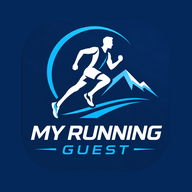
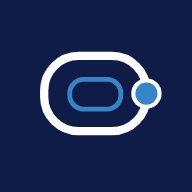
Identité My Running Lab
- Nouveau nom : My Running Lab (titre, en-tête « My Running Lab » avec
  « Lab » en bleu, manifeste, « Running Lab » sous l'icône, bilan, exports)
- Icône redessinée en vectoriel d'après le visuel fourni
  (identite/icone-my-running-lab.svg) ; icônes any, maskable et iPhone
- Palette de l'identité : bleu nuit #101C48, bleu #3884C8 (formes, grand
  texte, graphiques « réalisé »), bleu foncé #2766A3 (texte, boutons)
- Remplace le logo My Running Guest du commit précédent
- Identifiant technique des sauvegardes conservé (compatibilité)

Claude-Session: https://claude.ai/code/session_01VrhGhF3bVePQy5oompcvZY

Changed region(s): [[0.1562, 0.125, 0.8438, 0.8125], [0.8125, 0.2812, 0.875, 0.3438]]

diff --git a/index.html b/index.html
@@ -3,34 +3,33 @@
 <head>
 <meta charset="utf-8">
 <meta name="viewport" content="width=device-width, initial-scale=1, viewport-fit=cover">
-<meta name="theme-color" content="#020317">
-<title>My Running Guest</title>
+<meta name="theme-color" content="#101C48">
+<title>My Running Lab</title>
 <link rel="manifest" href="manifest.json">
 <link rel="apple-touch-icon" href="icons/apple-touch-icon.png">
 <link rel="icon" type="image/png" href="icons/icon-192.png">
 <meta name="apple-mobile-web-app-capable" content="yes">
-<meta name="apple-mobile-web-app-title" content="Running Guest">
+<meta name="apple-mobile-web-app-title" content="Running Lab">
 <meta name="apple-mobile-web-app-status-bar-style" content="default">
 <style>
-/* Charte ACN Anduze : toutes les couleurs se changent ici.
-   Couleurs mesurées sur le logo fourni (à remplacer par les codes officiels du club s'ils existent) :
-   bleu nuit #020317, bleu ciel #5AB6CB (teinte la plus soutenue du dégradé), blanc.
-   Le bleu ciel n'a que 2,3:1 de contraste sur blanc : il reste décoratif (filets, fonds).
-   Texte, boutons, liens et marques de graphique « réalisé » utilisent sa version foncée --azur-fonce
-   (6,0:1 sur blanc, au moins 5,0:1 sur tous les fonds teintés de l'outil). */
+/* Identité My Running Lab : toutes les couleurs se changent ici.
+   Couleurs mesurées sur le visuel d'identité fourni : bleu nuit #101C48, bleu #3884C8.
+   Le bleu #3884C8 n'a que 3,96:1 sur blanc : il sert aux formes (graphiques, filets) et au grand texte (« Lab »).
+   Texte courant, boutons et liens bleus utilisent --azur-fonce #2766A3 (au moins 5:1 sur tous les fonds de l'outil). */
 :root {
-  --nuit: #020317;          /* logo */
-  --azur: #5AB6CB;          /* logo : bleu ciel, usage décoratif uniquement */
-  --azur-fonce: #176C81;    /* bleu ciel assombri : texte, boutons, série « réalisé » */
-  --azur-clair: #E3F2F6;
+  --nuit: #101C48;          /* identité : bleu nuit */
+  --azur: #3884C8;          /* identité : bleu (formes, grand texte, filets) */
+  --azur-fonce: #2766A3;    /* bleu foncé : texte, boutons, liens */
+  --azur-clair: #EBF3FA;
+  --serie-realise: #3884C8; /* graphiques : séances réalisées */
   --blanc: #FFFFFF;
-  --texte: #020317;         /* bleu nuit du logo */
-  --texte-2: #45505C;
+  --texte: #101C48;
+  --texte-2: #4A5470;
   --bord: #C8D2DA;
   --fond-2: #F3F6F8;
-  /* Accent secondaire unique : distingue « prévu » de « réalisé » (bleu nuit du logo) */
-  --prevu: #020317;
-  --prevu-clair: #E9EAF0;
+  /* Accent secondaire unique : distingue « prévu » de « réalisé » (bleu nuit de l'identité) */
+  --prevu: #101C48;
+  --prevu-clair: #E8EAF1;
   --rayon: 8px;
   --cible: 44px;
   --nav-h: 64px;
@@ -58,8 +57,9 @@ a { color: var(--azur-fonce); }
   display: flex; align-items: center; gap: .75rem; flex-wrap: wrap;
   padding: .75rem 1rem; border-bottom: 3px solid var(--azur); background: var(--blanc);
 }
-.topbar h1 { margin: 0; font-size: 1.15rem; color: var(--nuit); }
-.topbar .club { color: var(--texte-2); font-size: .9rem; }
+.topbar h1 { margin: 0; font-size: 1.25rem; font-weight: 800; color: var(--nuit); letter-spacing: -.01em; }
+/* « Lab » en bleu de l'identité : texte de 20 px en gras = grand texte, contraste 3,96:1 >= 3:1 */
+.topbar h1 .lab { color: var(--azur); }
 main { padding: 1rem; padding-bottom: calc(var(--nav-h) + 90px + env(safe-area-inset-bottom)); max-width: 1500px; }
 main:focus { outline: none; }
 
@@ -95,7 +95,7 @@ main:focus { outline: none; }
 }
 .btn:hover { background: var(--azur-clair); }
 .btn.primaire { background: var(--azur-fonce); color: var(--blanc); }
-.btn.primaire:hover { background: #0F5566; }
+.btn.primaire:hover { background: #1E5486; }
 .btn.prevu { border-color: var(--prevu); color: var(--prevu); }
 .btn.prevu:hover { background: var(--prevu-clair); }
 .btn.discret { border-color: var(--bord); color: var(--texte); }
@@ -266,7 +266,7 @@ table.simple td.num, table.simple th.num { text-align: right; }
 .graph .point { stroke: var(--blanc); stroke-width: 2; }
 .graph .moyenne { stroke: var(--texte); stroke-width: 2; stroke-linecap: round; }
 .graph .cible { fill: transparent; cursor: pointer; }
-.graph .cible:hover, .graph .cible:focus { fill: rgba(23, 108, 129, .08); outline: none; }
+.graph .cible:hover, .graph .cible:focus { fill: rgba(56, 132, 200, .10); outline: none; }
 .legende { display: flex; gap: 1rem; font-size: .85rem; color: var(--texte-2); margin-bottom: .25rem; }
 .legende i { display: inline-block; width: 12px; height: 12px; border-radius: 3px; margin-right: .35rem; vertical-align: -1px; }
 .barres-h { display: flex; flex-direction: column; gap: 4px; }
@@ -274,7 +274,7 @@ table.simple td.num, table.simple th.num { text-align: right; }
 .bh:hover, .bh:focus { background: var(--fond-2); outline: none; }
 .bh-lib { font-size: .9rem; }
 .bh-piste { height: 20px; display: flex; align-items: center; }
-.bh-barre { display: block; height: 20px; background: var(--azur-fonce); border-radius: 0 4px 4px 0; min-width: 2px; }
+.bh-barre { display: block; height: 20px; background: var(--serie-realise); border-radius: 0 4px 4px 0; min-width: 2px; }
 .bh-val { font-size: .85rem; color: var(--texte-2); font-variant-numeric: tabular-nums; white-space: nowrap; }
 details.donnees summary { min-height: 36px; font-size: .9rem; }
 table.pvr td, table.pvr th { white-space: nowrap; font-variant-numeric: tabular-nums; }
@@ -282,7 +282,7 @@ table.pvr tr.futur td { color: var(--texte-2); }
 table.pvr .sans { color: var(--texte-2); font-size: .8rem; }
 table.simple td.num { white-space: nowrap; }
 .jauge { display: inline-block; width: 90px; height: 10px; background: var(--azur-clair); border-radius: 5px; vertical-align: middle; overflow: hidden; }
-.jauge span { display: block; height: 100%; background: var(--azur-fonce); }
+.jauge span { display: block; height: 100%; background: var(--serie-realise); }
 #infobulle { position: fixed; z-index: 60; display: none; pointer-events: none; background: var(--blanc); color: var(--texte); border: 1px solid var(--bord);
   border-radius: 6px; padding: .4rem .6rem; font-size: .85rem; box-shadow: 0 2px 8px rgba(0,0,0,.15); max-width: 280px; }
 #infobulle .cle { display: inline-block; width: 12px; height: 2px; margin-right: .4rem; vertical-align: middle; }
@@ -332,7 +332,7 @@ table.simple td.num { white-space: nowrap; }
 .cm-pastilles { display: none; gap: 3px; }
 .cm-pastilles i { width: 8px; height: 8px; border-radius: 50%; display: inline-block; }
 .cm-pastilles i.p { border: 2px solid var(--prevu); box-sizing: border-box; }
-.cm-pastilles i.r { background: var(--azur-fonce); }
+.cm-pastilles i.r { background: var(--serie-realise); }
 .cm-puces { display: flex; flex-direction: column; gap: 2px; }
 .cm-puces .puce { padding: 1px 3px; }
 .cm-puces .puce-corps { min-height: 0; }
@@ -409,7 +409,7 @@ tr.point td { font-weight: 700; }
     <a href="#/reglages" data-route="reglages"><svg viewBox="0 0 24 24" aria-hidden="true"><path d="M4 21v-7M4 10V3M12 21v-9M12 8V3M20 21v-5M20 12V3M1 14h6M9 8h6M17 16h6"/></svg><span>Réglages</span></a>
   </nav>
   <div>
[2 lines of base64/hex data omitted]
     <div id="bannieres"></div>
     <main id="vue" tabindex="-1"><p>Chargement…</p></main>
   </div>
@@ -2058,12 +2058,13 @@ var DB = (function () {
     var meta = Object.assign({}, DB.data.meta);
     delete meta.derniereSauvegarde;
     var paquet = {
+      // Identifiant technique conservé tel quel (ancien nom) : les sauvegardes déjà exportées restent importables
       application: 'suivi-trail-acn-anduze', schema: Core.SCHEMA_VERSION, exporteLe: maintenant(),
       donnees: { seances: DB.data.seances, courses: DB.data.courses, chaussures: DB.data.chaussures, vma: DB.data.vma, parametres: meta.parametres || {},
         // Réglages transférables entre appareils. Les jetons Strava (meta.strava) restent propres à chaque appareil et ne sont jamais exportés.
         reglages: REGLAGES_EXPORTES.reduce(function (acc, k) { if (meta[k] != null) acc[k] = meta[k]; return acc; }, {}) }
     };
-    telecharger('trail-acn-sauvegarde-' + Core.todayParis() + '.json', JSON.stringify(paquet, null, 2), 'application/json');
+    telecharger('my-running-lab-sauvegarde-' + Core.todayParis() + '.json', JSON.stringify(paquet, null, 2), 'application/json');
     DB.setMeta('derniereSauvegarde', maintenant()).then(function () { toast('Sauvegarde exportée.'); rafraichir(); }).catch(erreurStockage);
   }
 
@@ -3172,7 +3173,7 @@ var DB = (function () {
     for (var v = y0; v <= y1 + 1e-9; v += pas) { el('line', { x1: m.l, x2: W - m.r, y1: sy(v), y2: sy(v), class: 'grille' }, svg); txt(svg, m.l - 6, sy(v) + 4, fmt(v, 0), { class: 'axe', 'text-anchor': 'end' }); }
     o.reperes.forEach(function (r) { txt(svg, sx(r.iso), H - 8, r.lib, { class: 'axe', 'text-anchor': 'middle' }); });
     o.points.forEach(function (p) {
-      el('circle', { cx: sx(p.date), cy: sy(p.y), r: 4, fill: 'var(--azur-fonce)', class: 'point' }, svg);
+      el('circle', { cx: sx(p.date), cy: sy(p.y), r: 4, fill: 'var(--serie-realise)', class: 'point' }, svg);
       el('circle', { cx: sx(p.date), cy: sy(p.y), r: 12, class: 'cible', role: 'img', tabindex: 0, 'data-tip': JSON.stringify(p.tip), 'aria-label': p.tip.map(function (t) { return t.v; }).join(', ') }, svg);
     });
     conteneur.textContent = ''; conteneur.appendChild(svg);
@@ -3193,7 +3194,7 @@ var DB = (function () {
       var cy = m.t + i * lh + lh / 2;
       txt(svg, m.l - 10, cy + 4, typeLabel(l.type), { class: 'etiquette', 'text-anchor': 'end' });
       l.seances.forEach(function (x) {
-        el('circle', { cx: sx(x.allure), cy: cy, r: 4, fill: 'var(--azur-fonce)', class: 'point' }, svg);
+        el('circle', { cx: sx(x.allure), cy: cy, r: 4, fill: 'var(--serie-realise)', class: 'point' }, svg);
         el('circle', { cx: sx(x.allure), cy: cy, r: 12, class: 'cible', role: 'img', tabindex: 0, 'data-tip': JSON.stringify([{ v: dateLongue(x.s.date) + ' — ' + typeLabel(x.s.type) }, { v: Core.formatPace(x.allure), l: fmt(x.s.distanceKm, 2) + ' km' }]), 'aria-label': Core.formatDateFR(x.s.date) + ' ' + Core.formatPace(x.allure) }, svg);
       });
       el('line', { x1: sx(l.allureMoy), x2: sx(l.allureMoy), y1: cy - 12, y2: cy + 12, class: 'moyenne' }, svg);
@@ -3263,7 +3264,7 @@ var DB = (function () {
     h += '<div class="grille-graph">' +
       '<section class="carte"><h3>Volume par semaine (km réalisés)</h3><div class="graph" id="g-km"></div>' + tableDonnees(['Semaine', 'Km', 'D+ (m)', 'Durée réalisée', 'Durée prévue'], lignesSem) + '</section>' +
       '<section class="carte"><h3>D+ par semaine (m réalisés)</h3><div class="graph" id="g-dplus"></div></section>' +
-      '<section class="carte"><h3>Durée par semaine : prévue et réalisée</h3><div class="legende"><span><i style="background:var(--prevu)"></i>Prévue</span><span><i style="background:var(--azur-fonce)"></i>Réalisée</span></div><div class="graph" id="g-duree"></div>' +
+      '<section class="carte"><h3>Durée par semaine : prévue et réalisée</h3><div class="legende"><span><i style="background:var(--prevu)"></i>Prévue</span><span><i style="background:var(--serie-realise)"></i>Réalisée</span></div><div class="graph" id="g-duree"></div>' +
       '<p class="aide">Prévue = somme des durées des séances prévues qui en ont une ; les séances prévues sans durée ne comptent pas.</p></section>';
     var fc = reals.filter(function (s) { return Core.isNum(s.fcMoy); }).sort(function (a, b) { return a.date < b.date ? -1 : 1; });
     h += '<section class="carte"><h3>FC moyenne par séance (bpm)</h3>' + (fc.length ? '<div class="graph" id="g-fc"></div>' +
@@ -3321,10 +3322,10 @@ var DB = (function () {
 
     // Tracés (largeur réelle du conteneur, rejoués au redimensionnement)
     var etiq = W.map(semaineLib), det = W.map(function (w) { return semaineLib(w) + ' · ' + plageLib(w.du, w.au); });
-    dessins.push(function () { graphColonnes($('#g-km'), { titre: 'Km réalisés par semaine', etiquettes: etiq, details: det, series: [{ nom: 'réalisés', couleur: 'var(--azur-fonce)', valeurs: W.map(function (w) { return w.realise.km; }) }], formatAxe: function (v) { return fmt(v, 0); }, formatVal: function (v) { return fmt(v, 1) + ' km'; } }); });
-    dessins.push(function () { graphColonnes($('#g-dplus'), { titre: 'D+ réalisé par semaine', etiquettes: etiq, details: det, series: [{ nom: 'réalisé', couleur: 'var(--azur-fonce)', valeurs: W.map(function (w) { return w.realise.dplus; }) }], formatAxe: function (v) { return fmt(v, 0); }, formatVal: function (v) { return fmt(v, 0) + ' m'; } }); });
+    dessins.push(function () { graphColonnes($('#g-km'), { titre: 'Km réalisés par semaine', etiquettes: etiq, details: det, series: [{ nom: 'réalisés', couleur: 'var(--serie-realise)', valeurs: W.map(function (w) { return w.realise.km; }) }], formatAxe: function (v) { return fmt(v, 0); }, formatVal: function (v) { return fmt(v, 1) + ' km'; } }); });
+    dessins.push(function () { graphColonnes($('#g-dplus'), { titre: 'D+ réalisé par semaine', etiquettes: etiq, details: det, series: [{ nom: 'réalisé', couleur: 'var(--serie-realise)', valeurs: W.map(function (w) { return w.realise.dplus; }) }], formatAxe: function (v) { return fmt(v, 0); }, formatVal: function (v) { return fmt(v, 0) + ' m'; } }); });
     dessins.push(function () { graphColonnes($('#g-duree'), { titre: 'Durée prévue et réalisée par semaine', etiquettes: etiq, details: det,
-      series: [{ nom: 'prévue', couleur: 'var(--prevu)', valeurs: W.map(function (w) { return w.prevu.dureeSec / 3600; }) }, { nom: 'réalisée', couleur: 'var(--azur-fonce)', valeurs: W.map(function (w) { return w.realise.dureeSec / 3600; }) }],
+      series: [{ nom: 'prévue', couleur: 'var(--prevu)', valeurs: W.map(function (w) { return w.prevu.dureeSec / 3600; }) }, { nom: 'réalisée', couleur: 'var(--serie-realise)', valeurs: W.map(function (w) { return w.realise.dureeSec / 3600; }) }],
       formatAxe: function (v) { return fmt(v, 1) + ' h'; }, formatVal: function (v, s, i) { return fmtDuree(v * 3600) + (s.nom === 'prévue' && W[i].prevuSans.dureeSec ? ' (+' + W[i].prevuSans.dureeSec + ' sans durée)' : ''); } }); });
     if (fc.length) dessins.push(function () {
       var mois = [], d = Core.debutMois(du);
@@ -3824,7 +3825,7 @@ var DB = (function () {
         s.extrait ? [s.extrait.dureeSec ? 'durée « ' + s.extrait.dureeSec + ' »' : '', s.extrait.distanceKm ? 'distance « ' + s.extrait.distanceKm + ' »' : ''].filter(Boolean).join(', ') : ''];
     });
     // BOM UTF-8 : accents corrects à l'ouverture dans Excel
-    telecharger('trail-acn-seances-' + Core.todayParis() + '.csv', '' + Core.versCSV([entete].concat(lignes)), 'text/csv;charset=utf-8');
+    telecharger('my-running-lab-seances-' + Core.todayParis() + '.csv', '' + Core.versCSV([entete].concat(lignes)), 'text/csv;charset=utf-8');
     toast(lignes.length + ' séance(s) exportée(s) en CSV.');
   }
 
@@ -3848,7 +3849,7 @@ var DB = (function () {
       '<button type="button" class="btn primaire" data-action="imprimer">Imprimer / enregistrer en PDF</button></div></div>' +
       '<p class="aide">Dans la fenêtre d\'impression, choisis « Enregistrer au format PDF » pour obtenir un fichier.</p></div>';
     h += '<article class="bilan"><header class="bilan-tete"><img class="logo" src="' + $('.topbar .logo').getAttribute('src') + '" width="48" height="48" alt="">' +
-      '<div><h2>Bilan de ' + esc(nomMois) + '</h2><p class="aide">ACN Anduze · du ' + Core.formatDateFR(du) + ' au ' + Core.formatDateFR(au) + ' · édité le ' + Core.formatDateFR(auj) +
+      '<div><h2>Bilan de ' + esc(nomMois) + '</h2><p class="aide">My Running Lab · du ' + Core.formatDateFR(du) + ' au ' + Core.formatDateFR(au) + ' · édité le ' + Core.formatDateFR(auj) +
       (vE ? ' · VMA ' + fmt(vE.valeur, 2) + ' km/h (mesure du ' + Core.formatDateFR(vE.date) + ')' : '') + '</p></div></header>';
     h += '<section><h3>Réalisé</h3><table class="simple"><thead><tr><th></th><th class="num">' + esc(nomMois) + '</th><th class="num">Mois précédent</th><th class="num">Écart</th></tr></thead><tbody>' +
       '<tr><th scope="row">Séances</th><td class="num">' + r.n + '</td><td class="num">' + rp.n + '</td><td class="num">' + ecartTxt(r.n - rp.n, 0) + '</td></tr>' +
@@ -3933,7 +3934,7 @@ var DB = (function () {
         ? '<button type="button" class="btn primaire" data-action="strava-synchro">Synchroniser</button><button type="button" class="btn discret" data-action="strava-tout">Tout re-synchroniser depuis le ' + Core.formatDateFR(c.depuis) + '</button><button type="button" class="btn discret" data-action="strava-deconnecter">Déconnecter</button>'
         : '<button type="button" class="btn primaire" data-action="strava-connecter"' + (pret && servieEnLigne() ? '' : ' disabled') + '>Connecter Strava</button>' + (pret ? '' : '<span class="aide">Renseigne d\'abord les réglages ci-dessous.</span>')) + '</div>' +
       '<details' + (pret ? '' : ' open') + '><summary>Réglages de la synchronisation</summary><form id="f-strava" class="form-ligne" novalidate>' +
-      '<label>Adresse de la fonction relais<input name="worker" value="' + esc(c.worker) + '" placeholder="https://suivi-trail-strava.xxx.workers.dev" inputmode="url"></label>' +
+      '<label>Adresse de la fonction relais<input name="worker" value="' + esc(c.worker) + '" placeholder="https://my-running-lab-strava.xxx.workers.dev" inputmode="url"></label>' +
       '<label>Client ID de l\'application Strava<input name="clientId" value="' + esc(c.clientId) + '" inputmode="numeric"></label>' +
       '<label>Types Strava retenus (sport_type, séparés par des virgules)<input name="sports" value="' + esc(c.sports) + '"></label>' +
       '<label>Reprendre depuis le<input type="date" name="depuis" value="' + esc(c.depuis) + '"></label>' +

diff --git a/sw.js b/sw.js
@@ -2,7 +2,7 @@
 // Stratégie : réponse immédiate depuis le cache, puis mise à jour du cache en arrière-plan
 // (la nouvelle version de l'outil est utilisée au chargement suivant).
 // Aucune donnée personnelle n'est mise en cache ici : les séances restent dans IndexedDB.
-var VERSION = 'my-running-guest-v3';
+var VERSION = 'my-running-lab-v4';
 var FICHIERS = ['./', './index.html', './manifest.json', './icons/icon-192.png', './icons/icon-512.png', './icons/icon-maskable-192.png', './icons/icon-maskable-512.png', './icons/apple-touch-icon.png'];
 
 self.addEventListener('install', function (e) {

diff --git a/strava-worker/worker.js b/strava-worker/worker.js
@@ -1,4 +1,4 @@
-// Fonction Cloudflare Workers : relais minimal entre l'outil de suivi et l'API Strava.
+// Fonction Cloudflare Workers : relais minimal entre My Running Lab et l'API Strava.
 // Rôle : garder le secret client Strava hors du navigateur (échange et renouvellement des jetons OAuth)
 // et relayer la lecture de la liste des activités. Elle ne stocke rien.
 //

diff --git a/README.md b/README.md
@@ -1,4 +1,4 @@
-# My Running Guest — suivi course à pied et trail
+# My Running Lab — suivi course à pied et trail
 
 Outil personnel de suivi des séances de course à pied. Il tient dans un seul fichier, `index.html`, et fonctionne sans serveur. Les données sont stockées uniquement dans le navigateur : IndexedDB, ou localStorage si IndexedDB n'est pas disponible.
 
@@ -35,24 +35,26 @@ Outil personnel de suivi des séances de course à pied. Il tient dans un seul f
 - `FORMULES.md` : toutes les formules, avec leur source ou leur statut.
 - `tests/run.mjs` : exécution des tests du cœur de calcul sous Node.
 
-## Charte graphique
+## Identité visuelle
 
-Les couleurs de l'interface viennent du logo de l'ACN Anduze.
-
-**Logo et icônes** : logo My Running Guest fourni par Sylvain (image d'icône arrondie sur fond marine). Le dessin n'est pas modifié. Seuls les coins blancs de l'image sont rendus transparents (logo d'en-tête, icônes « any ») ou remplis du marine du bord du logo, `#04285A` (icônes « maskable » pour Android et icône iPhone). Dans la version « maskable », le logo est réduit à 80 % pour rester entier quand Android découpe l'icône en cercle. Je les ai mesurées sur l'image fournie : ce ne sont pas des codes officiels. Elles se changent toutes en un point, dans les variables CSS de `index.html`.
+Les couleurs ont été mesurées sur le visuel d'identité « My Running Lab » fourni. Elles se changent toutes en un point, dans les variables CSS de `index.html`.
 
 | Rôle | Variable | Valeur | Contraste sur blanc |
 |---|---|---|---|
-| Bleu nuit du logo : texte, titres, série « prévu » | `--nuit`, `--texte`, `--prevu` | `#020317` | 20,4:1 |
-| Bleu ciel du logo : filets et fonds, décoratif uniquement | `--azur` | `#5AB6CB` | 2,3:1 (trop faible pour du texte) |
-| Bleu ciel assombri : boutons, liens, série « réalisé » | `--azur-fonce` | `#176C81` | 6,0:1 |
-| Fond teinté | `--azur-clair` | `#E3F2F6` | — |
+| Bleu nuit : texte, titres, fond de l'icône, séances prévues | `--nuit`, `--texte`, `--prevu` | `#101C48` | 16,4:1 |
+| Bleu de l'identité : « Lab », filets, graphiques « réalisé » | `--azur`, `--serie-realise` | `#3884C8` | 3,96:1 (formes et grand texte uniquement) |
+| Bleu foncé : boutons, liens, petits textes bleus | `--azur-fonce` | `#2766A3` | 5,97:1 (au moins 5:1 sur tous les fonds de l'outil) |
 
-**Validateur de palette** (paire réalisé `#176C81` / prévu `#020317`, sur fond clair) :
+**Icône.** Elle a été redessinée en vectoriel (`identite/icone-my-running-lab.svg`) à partir des mesures du visuel fourni, dont l'icône ne faisait que 138 px. Les formes et les couleurs sont reprises du visuel. Si un fichier source officiel (SVG) existe, il suffit de remplacer ce fichier et de régénérer les icônes.
+- **Version « any »** : coins arrondis transparents.
+- **Version « maskable »** (Android) et **icône iPhone** : fond bleu nuit plein. Le motif reste dans la zone sûre de 80 %.
 
-- Ce qui passe : séparation pour les daltoniens (ΔE 41,6), séparation en vision normale (ΔE 42,8) et contraste ≥ 3:1.
-- Ce qui échoue : deux critères esthétiques, la « bande de luminosité » (le bleu nuit est très sombre) et la « saturation minimale » (les deux bleus du club sont peu saturés).
-- Pourquoi ce choix reste lisible : il garde la fidélité au logo, et prévu et réalisé se distinguent aussi autrement que par la couleur (légende, contour pointillé ou plein, libellés, tableau de données).
+**Police.** C'est celle du système de l'appareil, faute de fichier de police fourni, et pour que l'outil reste sans dépendance et utilisable hors connexion.
+
+**Validateur de palette** (graphiques : réalisé `#3884C8`, prévu `#101C48`) :
+- **Ce qui passe** : séparation pour les daltoniens (ΔE 34,7), séparation en vision normale (ΔE 35,6) et contraste ≥ 3:1.
+- **Ce qui échoue** : deux critères esthétiques, la bande de luminosité et la saturation minimale, parce que le bleu nuit est très sombre et peu saturé.
+- **Ce qui compense** : prévu et réalisé se distinguent aussi par la légende, le contour pointillé ou plein, les libellés et le tableau de données.
 
 ## État d'avancement
 

diff --git a/strava-worker/LISEZMOI.md b/strava-worker/LISEZMOI.md
@@ -33,8 +33,8 @@ Le contrôle d'origine bloque les autres sites web, mais un programme peut en im
 
 1. Connecte-toi à Strava sur ordinateur et ouvre la page des réglages API : https://www.strava.com/settings/api
 2. Remplis les champs. Les intitulés de Strava peuvent évoluer.
-   - **Application Name** : par exemple « Suivi trail ACN ».
-   - **Website** : l'adresse de l'outil, par exemple `https://moncompte.github.io/my-running-guest/`.
+   - **Application Name** : par exemple « My Running Lab ».
+   - **Website** : l'adresse de l'outil, par exemple `https://moncompte.github.io/my-running-lab/`.
    - **Authorization Callback Domain** : **le domaine seul**, sans `https://` ni chemin, par exemple `moncompte.github.io`.
 3. Note le **Client ID** (un nombre) et le **Client Secret**. Le secret ne se saisit **que** dans Cloudflare, jamais dans l'outil.
 
@@ -45,13 +45,13 @@ Une nouvelle application ne peut servir qu'un athlète (« Single Player Mode »
 Les intitulés du tableau de bord Cloudflare peuvent évoluer.
 
 1. Tableau de bord Cloudflare → **Workers & Pages** → **Create** → **Worker**.
-2. Nomme-le, par exemple `suivi-trail-strava`, puis déploie le modèle proposé.
+2. Nomme-le, par exemple `my-running-lab-strava`, puis déploie le modèle proposé.
 3. **Edit code** : remplace tout le contenu par celui de `worker.js`, puis **Deploy**.
 4. **Settings** → **Variables and Secrets**, et ajoute :
    - `STRAVA_CLIENT_ID` (type texte) : ton Client ID.
    - `ALLOWED_ORIGIN` (type texte) : l'adresse de l'outil **sans chemin**, par exemple `https://moncompte.github.io`.
    - `STRAVA_CLIENT_SECRET` (type **Secret**) : ton Client Secret.
-5. Note l'adresse de la fonction, par exemple `https://suivi-trail-strava.<ton-sous-domaine>.workers.dev`.
+5. Note l'adresse de la fonction, par exemple `https://my-running-lab-strava.<ton-sous-domaine>.workers.dev`.
 
 **En ligne de commande, si tu préfères :**
 1. Complète `wrangler.toml`.
